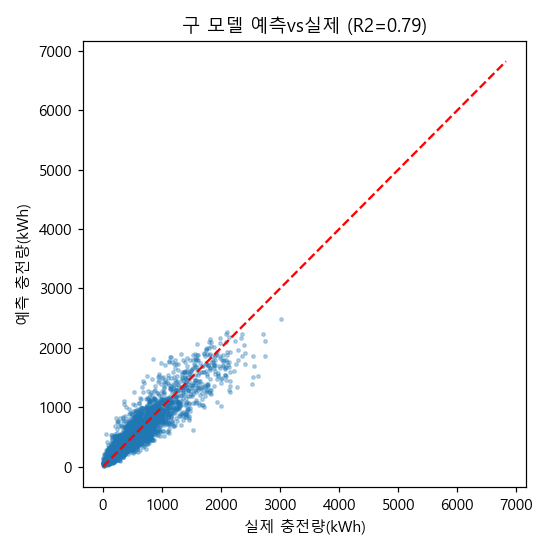
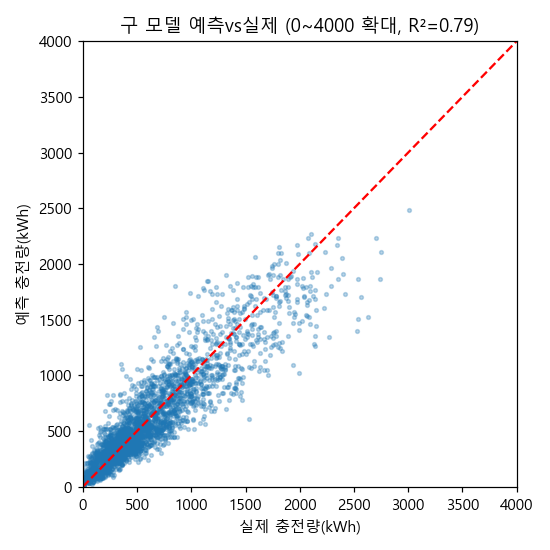
fix: 예측vs실제·충전량분포 그래프 0~4000 확대 (가독성 개선) + 보고서 생성 스크립트

diff --git a/src/ml/make_report.py b/src/ml/make_report.py
@@ -1,0 +1,58 @@
+from docx import Document
+from docx.shared import Inches, Pt
+from docx.oxml.ns import qn
+from pathlib import Path
+ROOT=Path("C:/teamwork/SeoulEVCheck"); FIG=ROOT/"reports"/"figures"
+doc=Document()
+s=doc.styles['Normal']; s.font.name='맑은 고딕'; s.font.size=Pt(10)
+rf=s.element.get_or_add_rPr().get_or_add_rFonts()
+rf.set(qn('w:eastAsia'),'맑은 고딕'); rf.set(qn('w:ascii'),'맑은 고딕')
+def fig(n,w=5.2):
+    p=FIG/n
+    if p.exists(): doc.add_picture(str(p),width=Inches(w))
+def bullets(items):
+    for t in items: doc.add_paragraph(t, style='List Bullet')
+doc.add_heading('머신러닝 산출물 — SeoulEVCheck',0)
+doc.add_paragraph('서울 전기차 충전 수요 예측 및 시각화  |  담당: 오영석  |  1주차 ML')
+doc.add_heading('1. 사업과제',1)
+doc.add_paragraph('AI 기반 서울시 전기차 충전 수요 예측 및 시각화 (SeoulEVCheck)')
+doc.add_heading('2. 개요 및 현황',1)
+doc.add_heading('2.1 추진배경 및 목적',2)
+bullets(['전기차 보급 급증 → 충전 인프라 수요 예측·관리 필요성 증대',
+         '활용: ①충전 인프라 투자 효율 ②전력 부하 관리(에너지 절감) ③운영 최적화',
+         '향후 비전: 예측 수요 기반 이동형 배달충전 배치 → 자율주행 무인 충전의 두뇌(스토리)'])
+doc.add_heading('2.2 과제 범위',2)
+doc.add_paragraph('AI(데이터 정제·EDA·모델) / 시각화(Streamlit) / 테스트. 제외: 자율주행 구현, CNN/이미지, 동 단위 예측.')
+doc.add_heading('2.3 추진 방법',2)
+doc.add_paragraph('DATA IMPORTING → 전처리 → 모델링(XGBoost) → 예측 → 시각화')
+doc.add_heading('3. 연구개발 주요 결과물',1)
+doc.add_heading('① 데이터 수집',2)
+doc.add_paragraph('한국전력공사 서울 충전량, 638,702 세션, 9개 컬럼(충전량·충전구분·주소·시각 등). 출처: 공공데이터포털.')
+doc.add_heading('② 데이터 분석',2)
+doc.add_paragraph('전처리: null/음수 11,203건 제거 · 밀집구간 필터(2021-01~2022-03, 455일) · 주소→구 추출 98.5% · 누수 특성(세션수·충전시간) 제외.')
+doc.add_paragraph('상관관계 히트맵 (세션수 0.89 → 누수로 특성 제외):'); fig('06_corr.png',4.3)
+doc.add_paragraph('충전량 분포(0~4000 확대) / 충전구분별 평균:'); fig('01_target_dist.png',4.5); fig('05_charger.png',3.3)
+doc.add_paragraph('수요 상위 구(배달충전 우선지역): 송파 > 강남 > 마포 > 서초 > 용산'); fig('04_top_gu.png',5.0)
+doc.add_heading('③ 데이터 학습 및 모델 정의',2)
+doc.add_paragraph('타깃: 일별 충전량 · 범주형 원-핫 · XGBoost 회귀 · 검증: train/test 8:2 + 5-fold CV(shuffle), random_state=42.')
+t=doc.add_table(rows=3,cols=5); t.style='Table Grid'
+hdr=['모델','베이스라인 R²','XGBoost R²','CV R²','RMSE(kWh)']
+data=[['구(거시)','0.761','0.787','0.768','216'],['충전소(미시)','0.485','0.571','0.570','52']]
+for j,h in enumerate(hdr): t.rows[0].cells[j].text=h
+for i,r in enumerate(data):
+    for j,v in enumerate(r): t.rows[i+1].cells[j].text=v
+doc.add_paragraph('→ 두 모델 모두 베이스라인 초과(주 성공기준 달성).')
+doc.add_paragraph('예측 vs 실제(0~4000 확대) / 특성 중요도(구 모델):'); fig('07_pred_gu.png',5.4); fig('08_imp_gu.png',4.8)
+doc.add_heading('④ 프로토타이핑 (화면)',2)
+doc.add_paragraph('Streamlit 서비스: 구·충전기·요일·월 입력 → 예상 일 충전량 + 구별 수요 + 충전소 핫스팟 TOP10.')
+doc.add_paragraph('[여기에 배포된 Streamlit 앱 스크린샷을 삽입하세요]')
+doc.add_heading('4. 결론 및 향후',1)
+bullets(['구 모델 R²≈0.79, 충전소 모델 R²≈0.57 — 두 모델 모두 베이스라인 초과',
+         '수요 핫스팟(송파·강남·마포…) 도출 → 배달충전 우선지역 의사결정 지원',
+         '향후: year(증가추세) 특성 추가 / 2주 DL(LSTM 시계열) / 3주 LLM(충전 어드바이저·RAG)'])
+out=ROOT/'docs'/'오영석_머신러닝프로젝트.docx'
+try:
+    doc.save(str(out)); print("docx 저장:", out.name)
+except PermissionError:
+    alt=ROOT/'docs'/'오영석_머신러닝프로젝트_new.docx'; doc.save(str(alt))
+    print("원본이 열려있어 새 파일로 저장:", alt.name, "(기존 닫고 이걸 쓰세요)")